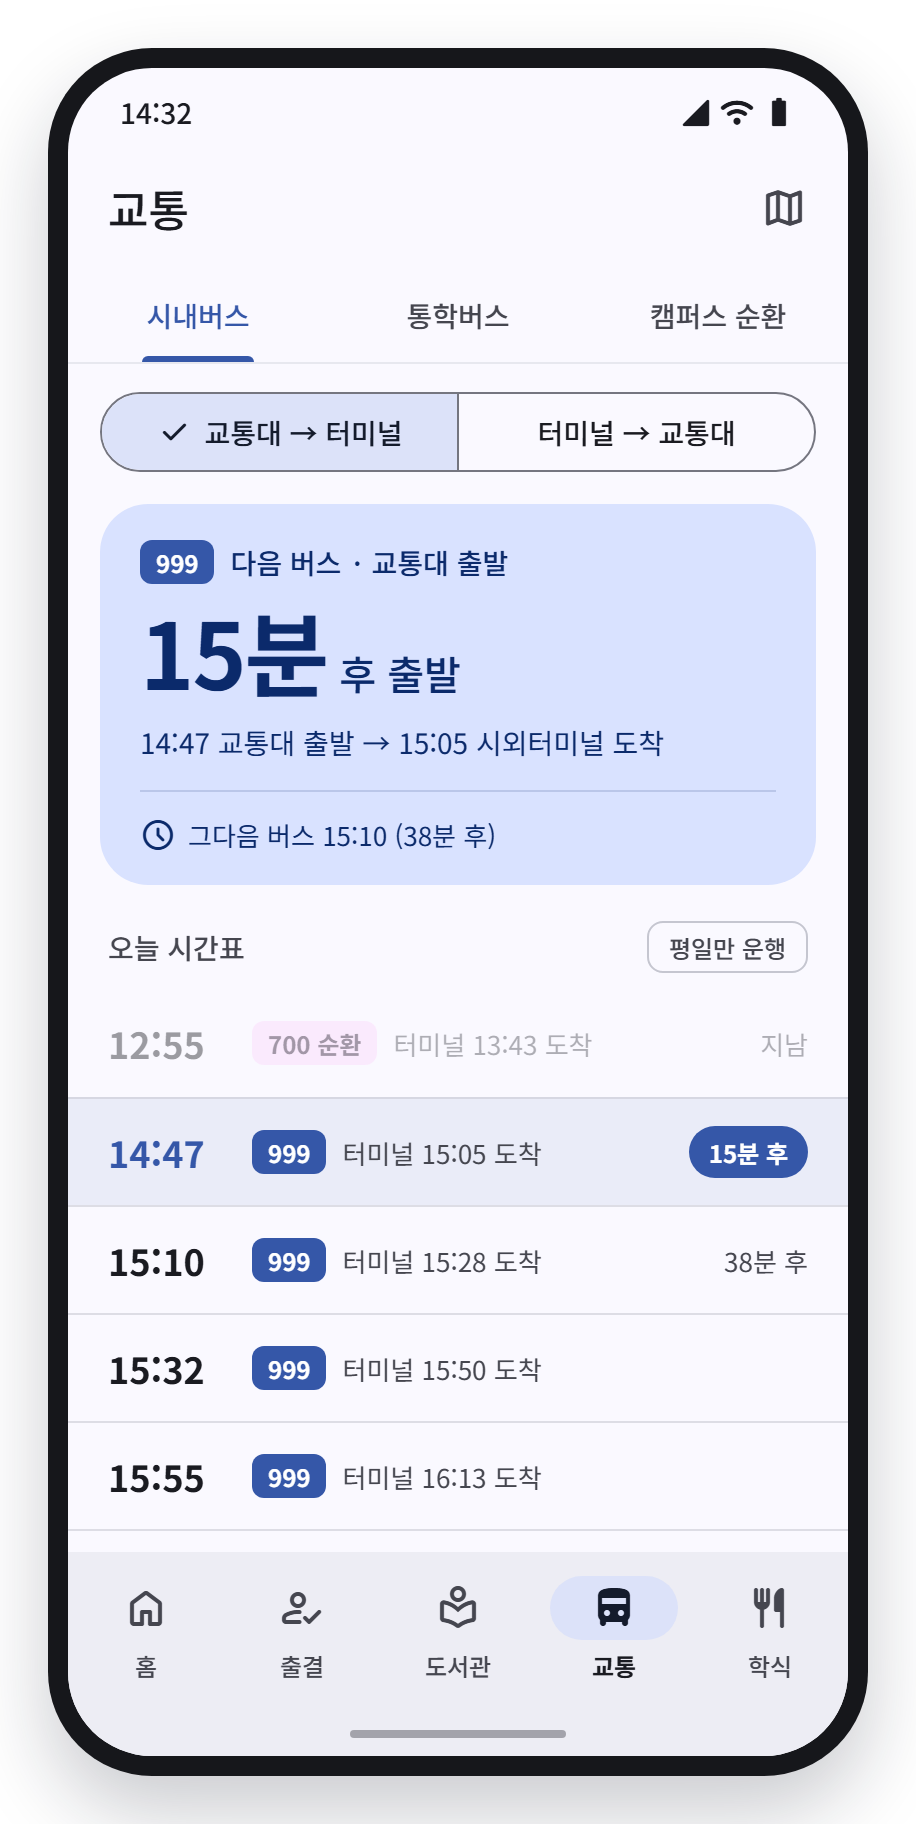
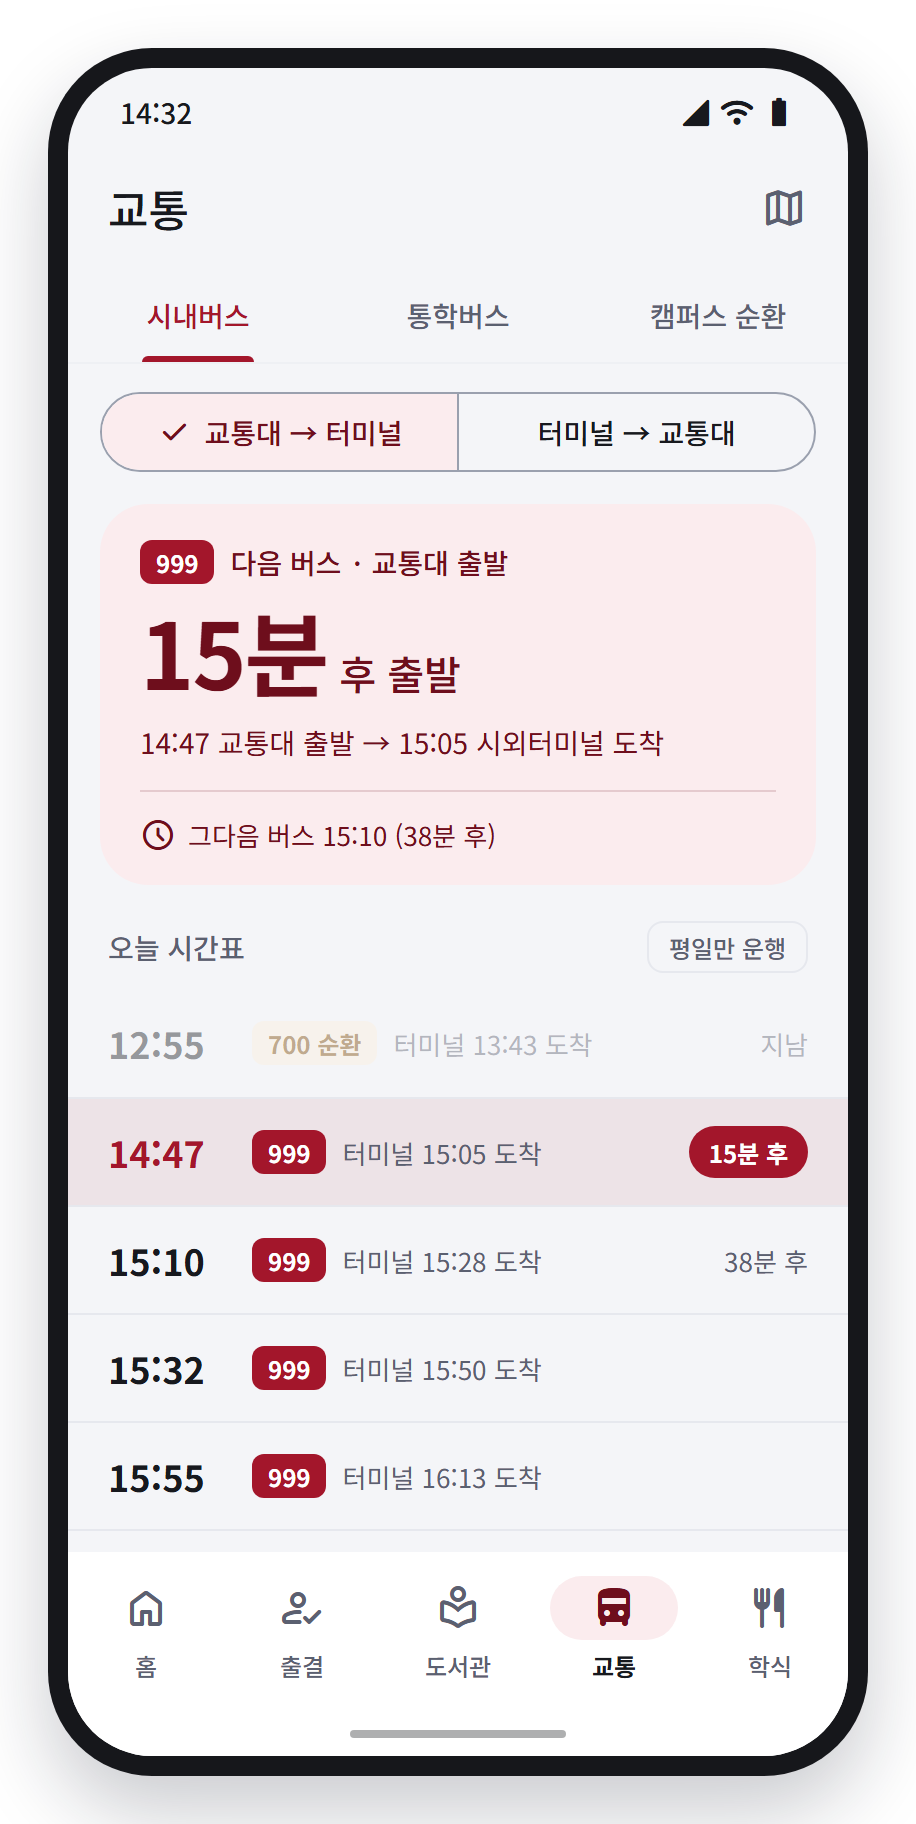
학식·교통·길찾기 목업 색을 대표색으로 맞추기
Material 3 파란 계열 대신 팀원 도서관 Figma 토큰(대표색 #A3162B)을 써서
메인 화면·전자출결 목업, 앱과 색을 맞춤. PNG 8장을 같은 크기로 다시 찍음.

diff --git a/mockups/mockup.html b/mockups/mockup.html
@@ -8,25 +8,25 @@
 <link href="https://fonts.googleapis.com/css2?family=Noto+Sans+KR:wght@400;500;700&display=block" rel="stylesheet">
 <link href="https://fonts.googleapis.com/css2?family=Material+Symbols+Rounded:opsz,wght,FILL,GRAD@20..48,100..700,0..1,-50..200&display=block" rel="stylesheet">
 <style>
-  /* Material 3 색 (파란 계열 seed 기준 근사값) */
+  /* 색: 팀원 도서관 Figma 토큰(KNUT Library). 처음 Material 3 파란 계열에서 2026-10-27에 바꿈 */
   :root {
-    --primary: #3557a8;
+    --primary: #a3162b;
     --on-primary: #ffffff;
-    --primary-container: #d9e2ff;
-    --on-primary-container: #0b2a6b;
-    --secondary-container: #dce2f9;
-    --on-secondary-container: #141b2c;
-    --tertiary-container: #fcd7fb;
-    --on-tertiary-container: #2a1230;
-    --error: #ba1a1a;
-    --surface: #faf9ff;
-    --surface-low: #f3f3fa;
-    --surface-mid: #ededf4;
-    --surface-high: #e7e8ef;
-    --on-surface: #1a1b21;
-    --on-surface-variant: #45464f;
-    --outline: #757680;
-    --outline-variant: #c5c6d0;
+    --primary-container: #fbecee;
+    --on-primary-container: #6e0e1c;
+    --secondary-container: #fbecee;
+    --on-secondary-container: #6e0e1c;
+    --tertiary-container: #fdf0dd;
+    --on-tertiary-container: #7a4500;
+    --error: #a3162b;
+    --surface: #f4f5f8;
+    --surface-low: #ffffff;
+    --surface-mid: #ffffff;
+    --surface-high: #eef0f4;
+    --on-surface: #17191e;
+    --on-surface-variant: #5b6070;
+    --outline: #9aa0ae;
+    --outline-variant: #e6e8ee;
     --page: #eceef3;
   }
   * { box-sizing: border-box; margin: 0; padding: 0; }
@@ -82,7 +82,7 @@
   .nav .on { color: var(--on-surface); font-weight: 700; }
   .nav .on i { background: var(--secondary-container); color: var(--on-secondary-container); }
   .gesture { height: 22px; background: var(--surface-mid); display: flex; align-items: center; justify-content: center; flex: none; }
-  .gesture::after { content: ''; width: 108px; height: 4px; border-radius: 2px; background: #1a1b21; opacity: .35; }
+  .gesture::after { content: ''; width: 108px; height: 4px; border-radius: 2px; background: #17191e; opacity: .35; }
 
   /* 공통 부품 */
   .seg { display: flex; height: 40px; border: 1px solid var(--outline); border-radius: 20px; overflow: hidden; margin: 4px 16px 0; }
@@ -116,7 +116,7 @@
   .datehead span { font-size: 13px; color: var(--on-surface-variant); }
   .card { margin: 0 16px; background: var(--surface-low); border-radius: 16px; }
   .menu-item { display: flex; align-items: center; justify-content: space-between; height: 47px; padding: 0 18px; font-size: 15px; }
-  .menu-item + .menu-item { border-top: 1px solid rgba(197, 198, 208, .55); }
+  .menu-item + .menu-item { border-top: 1px solid #e6e8ee; }
   .menu-item .p { color: var(--on-surface-variant); }
   .note { padding: 12px 22px 0; font-size: 12px; color: var(--on-surface-variant); display: flex; gap: 6px; align-items: center; }
   .note .ms { font-size: 16px; }
@@ -128,15 +128,15 @@
   .hero .big b { font-size: 46px; font-weight: 700; letter-spacing: -1px; line-height: 1; }
   .hero .big span { font-size: 20px; font-weight: 500; }
   .hero .line { margin-top: 10px; font-size: 14px; }
-  .hero .then { margin-top: 14px; padding-top: 12px; border-top: 1px solid rgba(11, 42, 107, .15); display: flex; align-items: center; gap: 6px; font-size: 13px; }
+  .hero .then { margin-top: 14px; padding-top: 12px; border-top: 1px solid rgba(110, 14, 28, .15); display: flex; align-items: center; gap: 6px; font-size: 13px; }
   .hero .then .ms { font-size: 18px; }
   .trip { display: flex; align-items: center; height: 54px; padding: 0 20px; gap: 14px; }
-  .trip + .trip { border-top: 1px solid rgba(197, 198, 208, .55); }
+  .trip + .trip { border-top: 1px solid #e6e8ee; }
   .trip .t { width: 58px; font-size: 18px; font-weight: 700; }
   .trip .mid { flex: 1; display: flex; align-items: center; gap: 8px; font-size: 13px; color: var(--on-surface-variant); }
   .trip .r { font-size: 13px; color: var(--on-surface-variant); }
   .trip.past { opacity: .42; }
-  .trip.next { background: rgba(53, 87, 168, .08); }
+  .trip.next { background: rgba(163, 22, 43, .08); }
   .trip.next .t { color: var(--primary); }
   .pill { display: inline-flex; align-items: center; height: 26px; padding: 0 10px; border-radius: 13px; background: var(--primary); color: var(--on-primary); font-size: 12px; font-weight: 700; }
 
@@ -298,7 +298,7 @@
 
   </div>
 
-  <p class="foot">식단과 시간표는 학교 홈페이지(충주캠퍼스 학생식당, 통학버스, 시내버스 안내)에서 2026년 10월 6일에 가져온 실제 내용입니다.<br>하단 탭 5개(홈 · 출결 · 도서관 · 교통 · 학식)의 이름과 순서는 가정입니다. 색은 Material 3 파란 계열 기본 색으로, 학교 색을 정하면 바꿀 수 있습니다.</p>
+  <p class="foot">식단과 시간표는 학교 홈페이지(충주캠퍼스 학생식당, 통학버스, 시내버스 안내)에서 2026년 10월 6일에 가져온 실제 내용입니다.<br>하단 탭 5개(홈 · 출결 · 도서관 · 교통 · 학식)의 이름과 순서는 가정입니다. 색은 팀원 도서관 Figma 토큰(대표색 #A3162B)으로 맞췄습니다.</p>
 </div>
 <script>
   const s = new URLSearchParams(location.search).get('s');

diff --git a/mockups/wayfinding.html b/mockups/wayfinding.html
@@ -8,24 +8,24 @@
 <link href="https://fonts.googleapis.com/css2?family=Noto+Sans+KR:wght@400;500;700&display=block" rel="stylesheet">
 <link href="https://fonts.googleapis.com/css2?family=Material+Symbols+Rounded:opsz,wght,FILL,GRAD@20..48,100..700,0..1,-50..200&display=block" rel="stylesheet">
 <style>
-  /* Material 3 색 (교통·학식 목업과 같은 값) */
+  /* 색: 팀원 도서관 Figma 토큰(교통·학식 목업과 같은 값) */
   :root {
-    --primary: #3557a8;
+    --primary: #a3162b;
     --on-primary: #ffffff;
-    --primary-container: #d9e2ff;
-    --on-primary-container: #0b2a6b;
-    --secondary-container: #dce2f9;
-    --on-secondary-container: #141b2c;
-    --error: #ba1a1a;
+    --primary-container: #fbecee;
+    --on-primary-container: #6e0e1c;
+    --secondary-container: #fbecee;
+    --on-secondary-container: #6e0e1c;
+    --error: #a3162b;
     --pin: #d93a2b;
-    --surface: #faf9ff;
-    --surface-low: #f3f3fa;
-    --surface-mid: #ededf4;
-    --surface-high: #e7e8ef;
-    --on-surface: #1a1b21;
-    --on-surface-variant: #45464f;
-    --outline: #757680;
-    --outline-variant: #c5c6d0;
+    --surface: #f4f5f8;
+    --surface-low: #ffffff;
+    --surface-mid: #ffffff;
+    --surface-high: #eef0f4;
+    --on-surface: #17191e;
+    --on-surface-variant: #5b6070;
+    --outline: #9aa0ae;
+    --outline-variant: #e6e8ee;
     --page: #eceef3;
     /* 지도 */
     --map-land: #f0f2ed;
@@ -81,7 +81,7 @@
   .appbar h2 { font-size: 22px; font-weight: 500; flex: 1; }
   .appbar .ms { color: var(--on-surface); width: 40px; text-align: center; }
   .gesture { height: 22px; display: flex; align-items: center; justify-content: center; flex: none; background: var(--surface-low); }
-  .gesture::after { content: ''; width: 108px; height: 4px; border-radius: 2px; background: #1a1b21; opacity: .35; }
+  .gesture::after { content: ''; width: 108px; height: 4px; border-radius: 2px; background: #17191e; opacity: .35; }
 
   /* 지도 */
   .map { position: relative; flex: 1; min-height: 0; overflow: hidden; background: var(--map-land); }
@@ -127,7 +127,7 @@
   .fromto .r { display: flex; align-items: center; gap: 12px; height: 48px; font-size: 15px; }
   .fromto .r + .r { border-top: 1px solid var(--outline-variant); }
   .fromto .r small { font-size: 12px; color: var(--on-surface-variant); margin-left: 4px; }
-  .dot-start { width: 14px; height: 14px; border-radius: 7px; background: var(--primary); box-shadow: 0 0 0 3px #fff, 0 0 0 5px rgba(53, 87, 168, .25); flex: none; margin: 0 1px; }
+  .dot-start { width: 14px; height: 14px; border-radius: 7px; background: var(--primary); box-shadow: 0 0 0 3px #fff, 0 0 0 5px rgba(163, 22, 43, .25); flex: none; margin: 0 1px; }
   .fromto .ms.pin { color: var(--pin); font-size: 22px; margin-left: -3px; }
   .swap { width: 40px; height: 40px; display: flex; align-items: center; justify-content: center; color: var(--on-surface-variant); }
   .summary { display: flex; align-items: baseline; gap: 10px; padding: 0 24px 12px; }
